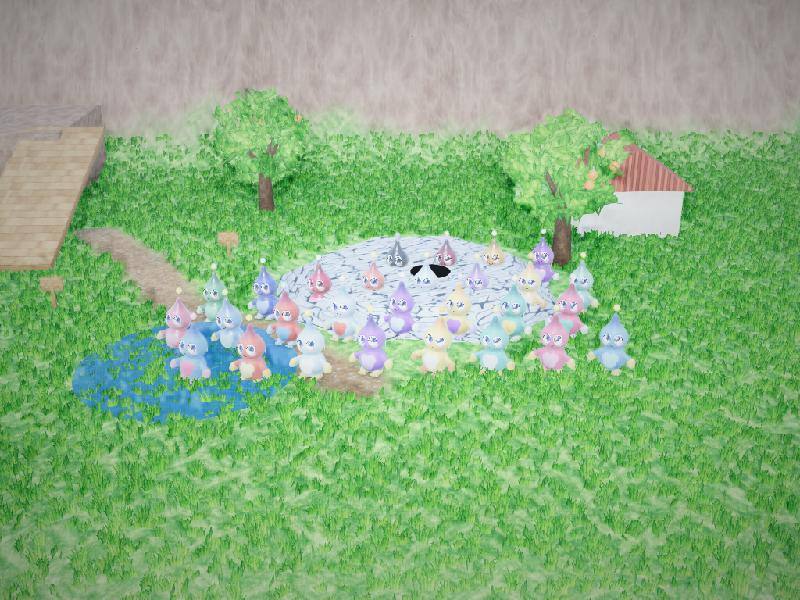
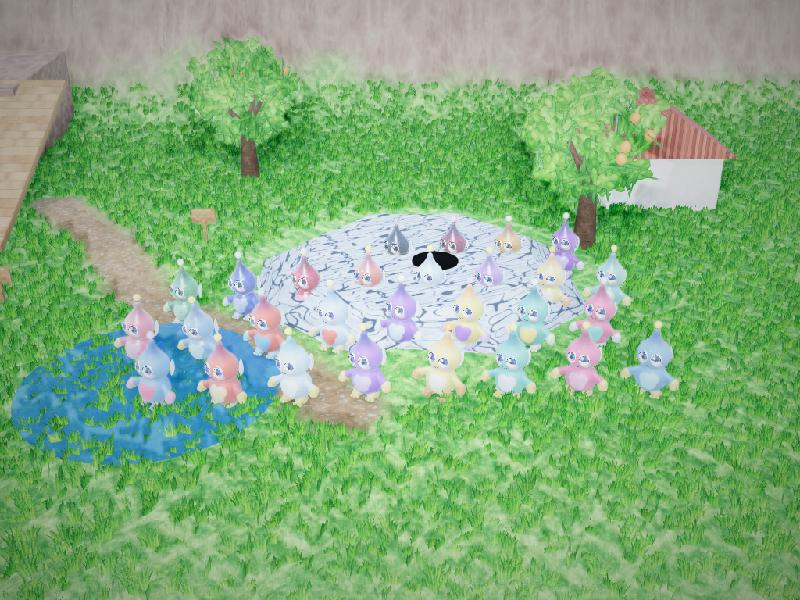
Add a facet surface detail for the jewel Nubbins
A sixth detail kind: a seamless jittered lattice of flat tilted cells with bright edges, baked into the triplanar albedo and normal maps, so the seven jewel variants read as cut stones instead of a flat gloss. No variant placeholders remain.

diff --git a/src/samples/creatures.ts b/src/samples/creatures.ts
@@ -17,7 +17,13 @@ export interface Creature {
 
 // ---------------------------------------------------------------- surface detail
 
-type Detail = 'fur' | 'scale' | 'leaf' | 'plate' | 'smooth';
+type Detail = 'fur' | 'scale' | 'leaf' | 'plate' | 'smooth' | 'facet';
+
+/** A repeatable 0..1 value per cell, so the facet lattice tiles without a seam. */
+function cellHash(a: number, b: number, salt: number): number {
+  const n = Math.sin(a * 127.1 + b * 311.7 + salt * 74.7) * 43758.5453;
+  return n - Math.floor(n);
+}
 
 interface DetailMaps {
   albedo: THREE.CanvasTexture;
@@ -73,6 +79,41 @@ function paintDetail(kind: Detail): DetailMaps {
           h = seam ? 0.1 : rivet ? 0.9 : 0.55 + fbm(x / 12, y / 12, 2, 87) * 0.2;
           break;
         }
+        case 'facet': {
+          // A jittered lattice of cells, each a flat plane with its own tilt, so the normal
+          // breaks at every cell edge like a cut stone; the edges catch a bright line.
+          const cs = 32;
+          const cells = s / cs;
+          const cx = Math.floor(x / cs);
+          const cy = Math.floor(y / cs);
+          let d1 = 1e9;
+          let d2 = 1e9;
+          let plane = 0.5;
+          let tone = 0;
+          for (let j = -1; j <= 1; j++) {
+            for (let i = -1; i <= 1; i++) {
+              const gx = cx + i;
+              const gy = cy + j;
+              const kx = ((gx % cells) + cells) % cells;
+              const ky = ((gy % cells) + cells) % cells;
+              const sx = (gx + 0.2 + cellHash(kx, ky, 1) * 0.6) * cs;
+              const sy = (gy + 0.2 + cellHash(kx, ky, 2) * 0.6) * cs;
+              const d = Math.hypot(x - sx, y - sy);
+              if (d < d1) {
+                d2 = d1;
+                d1 = d;
+                const tx = (cellHash(kx, ky, 3) - 0.5) * 0.05;
+                const ty = (cellHash(kx, ky, 4) - 0.5) * 0.05;
+                plane = 0.5 + (x - sx) * tx + (y - sy) * ty;
+                tone = cellHash(kx, ky, 5) - 0.5;
+              } else if (d < d2) d2 = d;
+            }
+          }
+          const edge = d2 - d1 < 2.4;
+          v = edge ? 0.92 : 0.48 + tone * 0.14;
+          h = edge ? plane - 0.1 : plane;
+          break;
+        }
         default:
           v = 0.5 + (n - 0.5) * 0.1;
           h = 0.5 + (n - 0.5) * 0.3;
@@ -89,7 +130,8 @@ function paintDetail(kind: Detail): DetailMaps {
   albedo.minFilter = THREE.LinearMipmapLinearFilter;
   albedo.generateMipmaps = true;
   const data = new Uint8Array(s * s * 4);
-  const strength = kind === 'plate' ? 5 : kind === 'scale' ? 4 : kind === 'fur' ? 2.5 : 2;
+  const strength =
+    kind === 'facet' ? 9 : kind === 'plate' ? 5 : kind === 'scale' ? 4 : kind === 'fur' ? 2.5 : 2;
   const hh = (x: number, y: number) => height[((y + s) % s) * s + ((x + s) % s)]!;
   const nv = new THREE.Vector3();
   for (let y = 0; y < s; y++) {

diff --git a/src/samples/nubbin-variants-colour.ts b/src/samples/nubbin-variants-colour.ts
@@ -96,12 +96,14 @@ const SHINY_FINISH = {
 };
 
 const JEWEL_FINISH = {
-  detail: 'smooth' as const,
+  detail: 'facet' as const,
+  scale: 0.55,
   roughness: 0.12,
   clearcoat: 1,
   sheen: 0.6,
   sheenColor: '#ffffff',
-  amount: 0.04,
+  amount: 0.3,
+  bump: 1,
 };
 
 const PLAIN = EGG_COLOURS.map((c) =>
@@ -133,9 +135,8 @@ const JEWEL = JEWELS.map((j) =>
     `jewel-${j.name}`,
     `Nubbin (${cap(j.name)})`,
     { body: j.body, crownShade: j.crownShade, belly: j.belly, tip: j.tip },
-    `Gemstone finish in ${j.name}: a hard gloss over the plain child shape.`,
+    `Gemstone finish in ${j.name}: cut facets and a hard gloss over the plain child shape.`,
     { surface: JEWEL_FINISH, eyes: { iris: j.crownShade } },
-    'facets are a flat gloss; a facet detail kind does not exist yet',
   ),
 );
 

diff --git a/docs/species-format.md b/docs/species-format.md
@@ -106,17 +106,17 @@ It paints every part the shape touches, so a chest patch can cross from torso to
 
 The material, from `creatures.ts`. A part may carry its own.
 
-| Field          | What it is                                                        | Default  | Example                 |
-| -------------- | ----------------------------------------------------------------- | -------- | ----------------------- |
-| `detail`       | `fur`, `scale`, `leaf`, `plate` or `smooth`: the triplanar grain. | required | `detail: 'fur'`         |
-| `scale`        | Grain size.                                                       | 1.6      | `scale: 2.2`            |
-| `amount`       | Grain strength in the colour.                                     | 0.6      | `amount: 0.4`           |
-| `bump`         | Grain strength in the normal.                                     | 0.6      | `bump: 0.4`             |
-| `roughness`    | Physical roughness.                                               | 0.6      | `roughness: 0.78`       |
-| `sheen`        | Fabric-like sheen strength.                                       | 0.3      | `sheen: 0.5`            |
-| `sheenColor`   | Sheen tint.                                                       | white    | `sheenColor: '#ffe0c0'` |
-| `clearcoat`    | Glossy coat strength (shells, plates, the cap).                   | 0.08     | `clearcoat: 0.6`        |
-| `glowStrength` | How bright the `glow` vertex attribute renders.                   | 0        | `glowStrength: 2`       |
+| Field          | What it is                                                                                                                                   | Default  | Example                 |
+| -------------- | -------------------------------------------------------------------------------------------------------------------------------------------- | -------- | ----------------------- |
+| `detail`       | `fur`, `scale`, `leaf`, `plate`, `smooth` or `facet` (a lattice of flat tilted cells with bright edges, for gemstones): the triplanar grain. | required | `detail: 'fur'`         |
+| `scale`        | Grain size.                                                                                                                                  | 1.6      | `scale: 2.2`            |
+| `amount`       | Grain strength in the colour.                                                                                                                | 0.6      | `amount: 0.4`           |
+| `bump`         | Grain strength in the normal.                                                                                                                | 0.6      | `bump: 0.4`             |
+| `roughness`    | Physical roughness.                                                                                                                          | 0.6      | `roughness: 0.78`       |
+| `sheen`        | Fabric-like sheen strength.                                                                                                                  | 0.3      | `sheen: 0.5`            |
+| `sheenColor`   | Sheen tint.                                                                                                                                  | white    | `sheenColor: '#ffe0c0'` |
+| `clearcoat`    | Glossy coat strength (shells, plates, the cap).                                                                                              | 0.08     | `clearcoat: 0.6`        |
+| `glowStrength` | How bright the `glow` vertex attribute renders.                                                                                              | 0        | `glowStrength: 2`       |
 
 ## Eyes
 

diff --git a/PROGRESS.md b/PROGRESS.md
@@ -9,7 +9,7 @@ new pass goes in at line 12 and the file is long, move the oldest section to
 Shipped and deployed: v1, the organic painted Grove, the Digimon-inspired ten, the Hollow
 Below dungeons, the 96-unit field, three save slots per mode. In progress: the full-3D
 mode, now a real Graphics setting (Pixel | Full 3D) with `src/render3d/`; the pixel mode
-ships unchanged. Latest pass: the 3D mode made real (stubs listed below). Waiting on Maor:
+ships unchanged. Latest pass: the jewel facets, the last variant placeholders. Waiting on Maor:
 the pick from expansions E1–E3 and campaigns S1–S4, and his device pass. Subagent briefs
 with model picks: `plan.md`. Improvement backlog against the Palworld references:
 `docs/creature-improvements.md`. Story content pack: `src/content/`, `script-book/`,
@@ -22,6 +22,17 @@ with model picks: `plan.md`. Improvement backlog against the Palworld references
 going until you hit the session limit." So after each milestone passes its done-when
 checks, start the next one without waiting. Still plan each one briefly in the session
 log before coding, still keep the per-milestone commits and checks.
+
+## Jewel facets (2026-10-16)
+
+The last variant placeholders are gone. `facet` is a sixth surface detail kind in
+`creatures.ts` (`paintDetail`): a jittered, seamlessly tiling lattice of cells, each a flat
+plane with its own tilt so the baked normal breaks at every cell edge, and a bright line
+along the edges; row added to the `SurfaceOpts` table in `docs/species-format.md`. The
+seven `jewel-*` entries in `nubbin-variants-colour.ts` wear it at `scale` 0.55 (about four
+facets per body unit; 2.4 read as glitter) with a hard clearcoat. Shots:
+`docs/samples/variants-jewel-closeup.jpg` (`?aaa=1&creature=variant:jewel-ruby&closeup`) and
+`variants-colour.jpg` re-shot. Lint, 216 tests and build pass.
 
 ## The full-3D mode, for real (2026-10-15)
 
